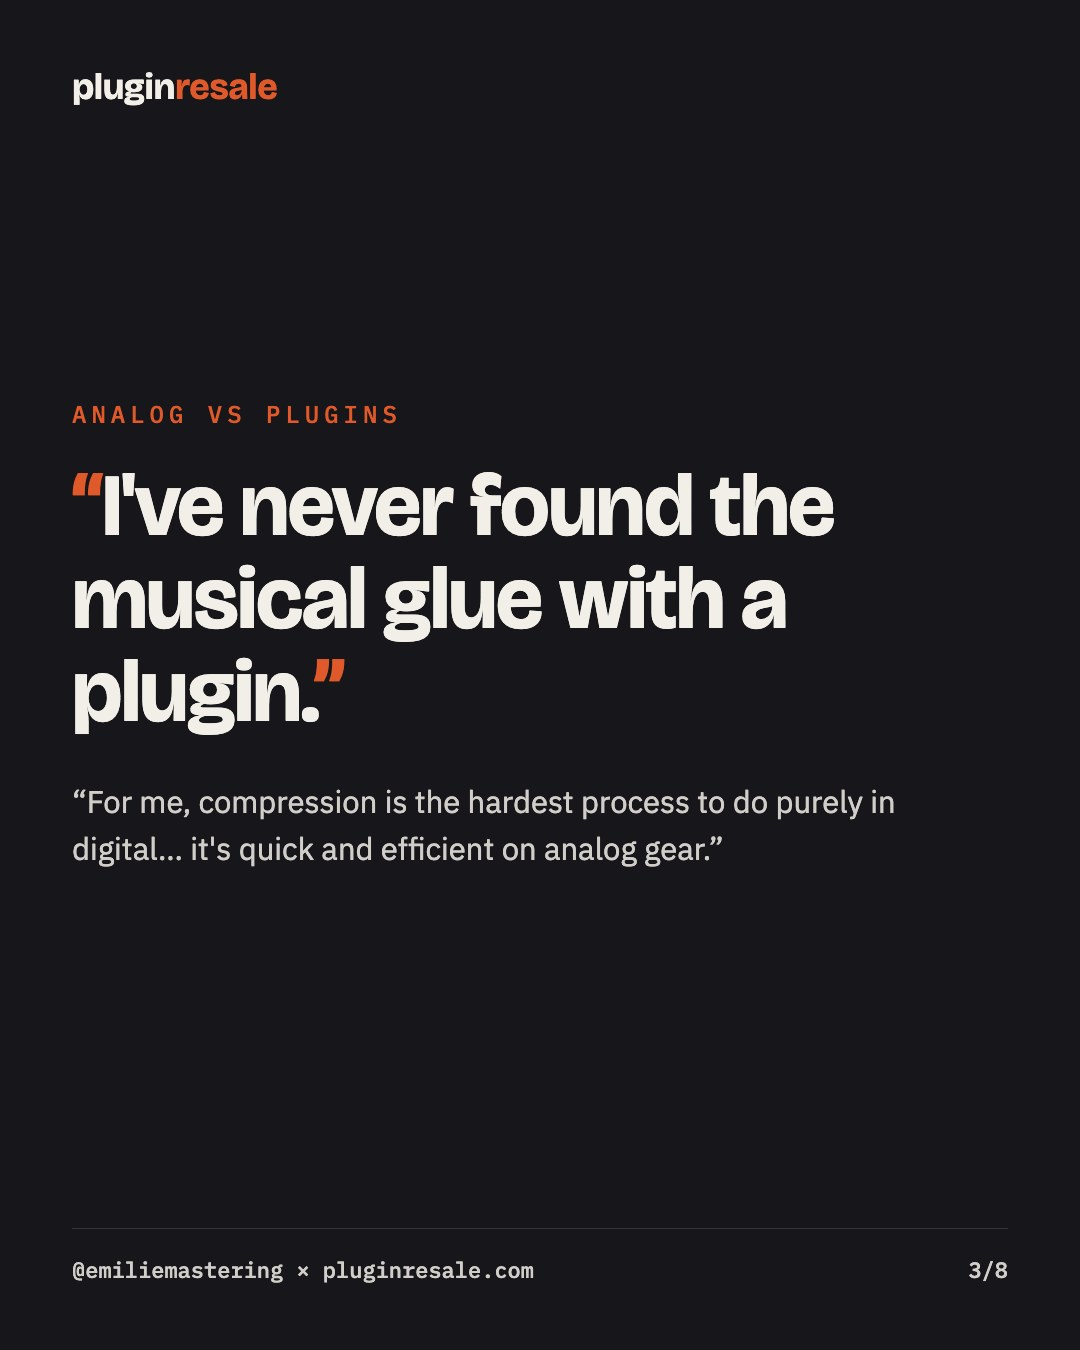
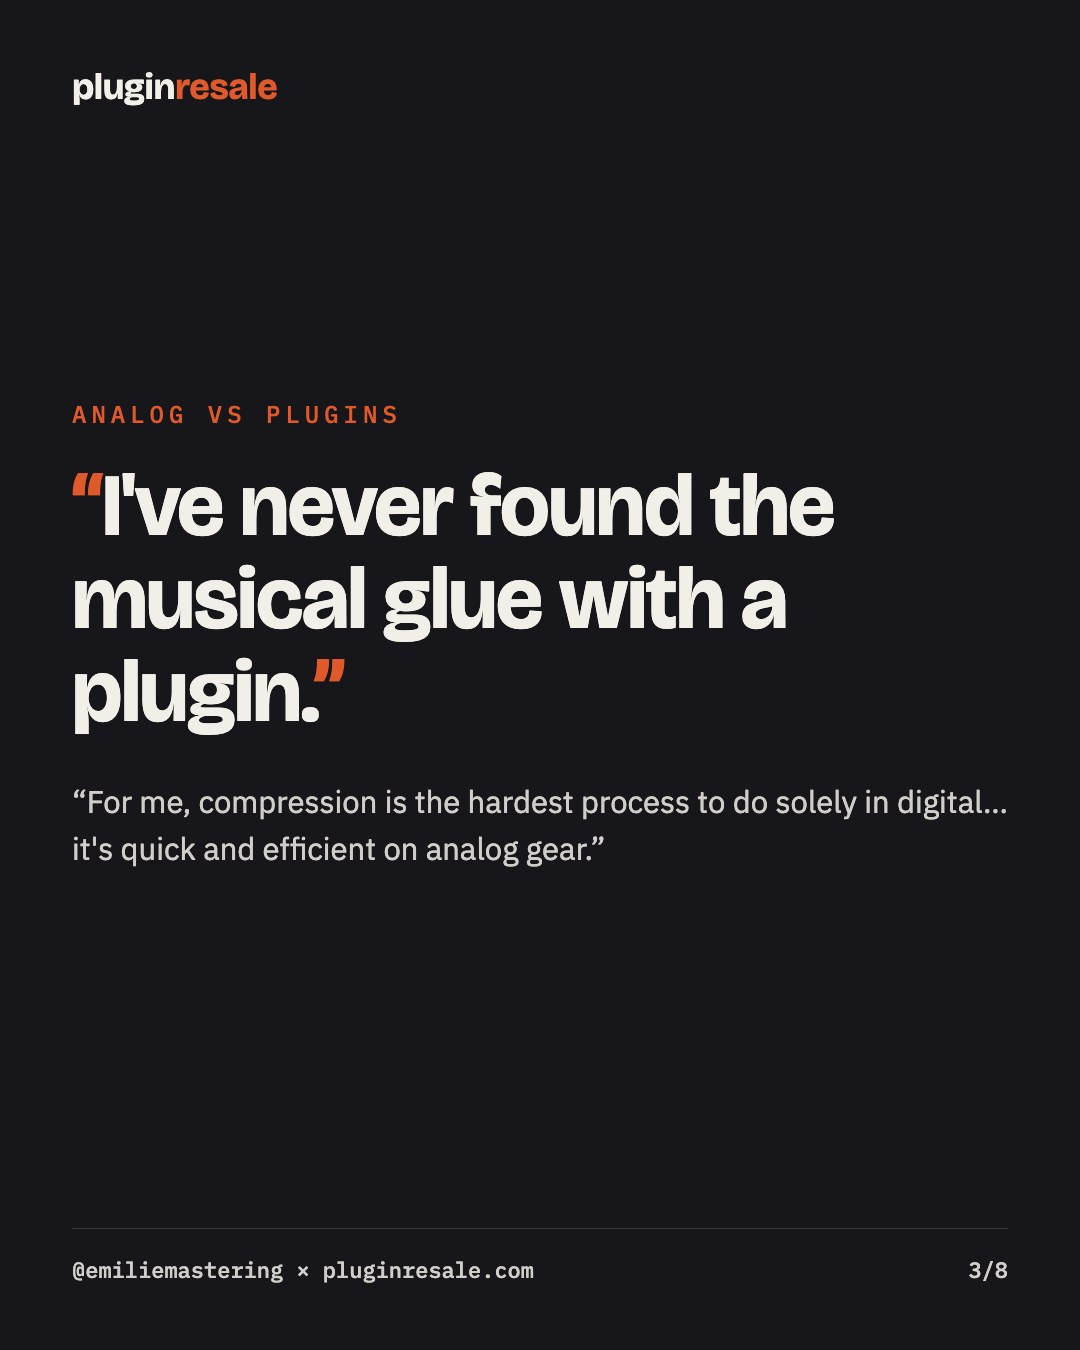
Emilie Daelemans interview: new portrait, solely

Changed region(s): [[0.0611, 0.6222, 0.6417, 0.6533], [0.7028, 0.5911, 0.9167, 0.6222]]

diff --git a/content/blog/_emilie-daelemans-interview.md b/content/blog/_emilie-daelemans-interview.md
@@ -10,8 +10,8 @@ Emilie Daelemans is a mastering engineer based in Maisons-Alfort, just outside P
 We talked about how she got into mastering, what she learned in Brooklyn, her hybrid chain and why compression stays analog, the plugins she relies on, and how playing music shapes the way she listens to a mix.
 
 <figure>
-  <img src="/blog/emilie-daelemans-interview/portrait.jpg" alt="Emilie Daelemans standing by her mastering desk, a speaker and a string of fairy lights behind her" width="853" height="1280">
-  <figcaption>Emilie Daelemans in her studio.</figcaption>
+  <img src="/blog/emilie-daelemans-interview/portrait.jpg" alt="Emilie Daelemans sitting at her mastering desk, arms resting on it, a keyboard and analog units in front of her" width="1100" height="1650">
+  <figcaption>Emilie Daelemans at her mastering desk.</figcaption>
 </figure>
 
 ## Getting started
@@ -49,7 +49,7 @@ Plugins are very good for surgical work, or to try gear I can't afford yet... Ah
 
 Actually, I mostly use plugins when I need to do subtractive work, or as a limiter at the end of the chain.
 
-For me, compression is the hardest process to do purely in digital. I've never found the musical glue with a plugin, whereas it's quick and efficient on analog gear.
+For me, compression is the hardest process to do solely in digital. I've never found the musical glue with a plugin, whereas it's quick and efficient on analog gear.
 
 Sometimes I think that what I do in analog could be done in the digital domain. I'm aware that what I really like in analog machines is that there are some things you can't control: the electronic components live a life of their own. I guess that's what we call "magic" when we talk about analog sound.
 
